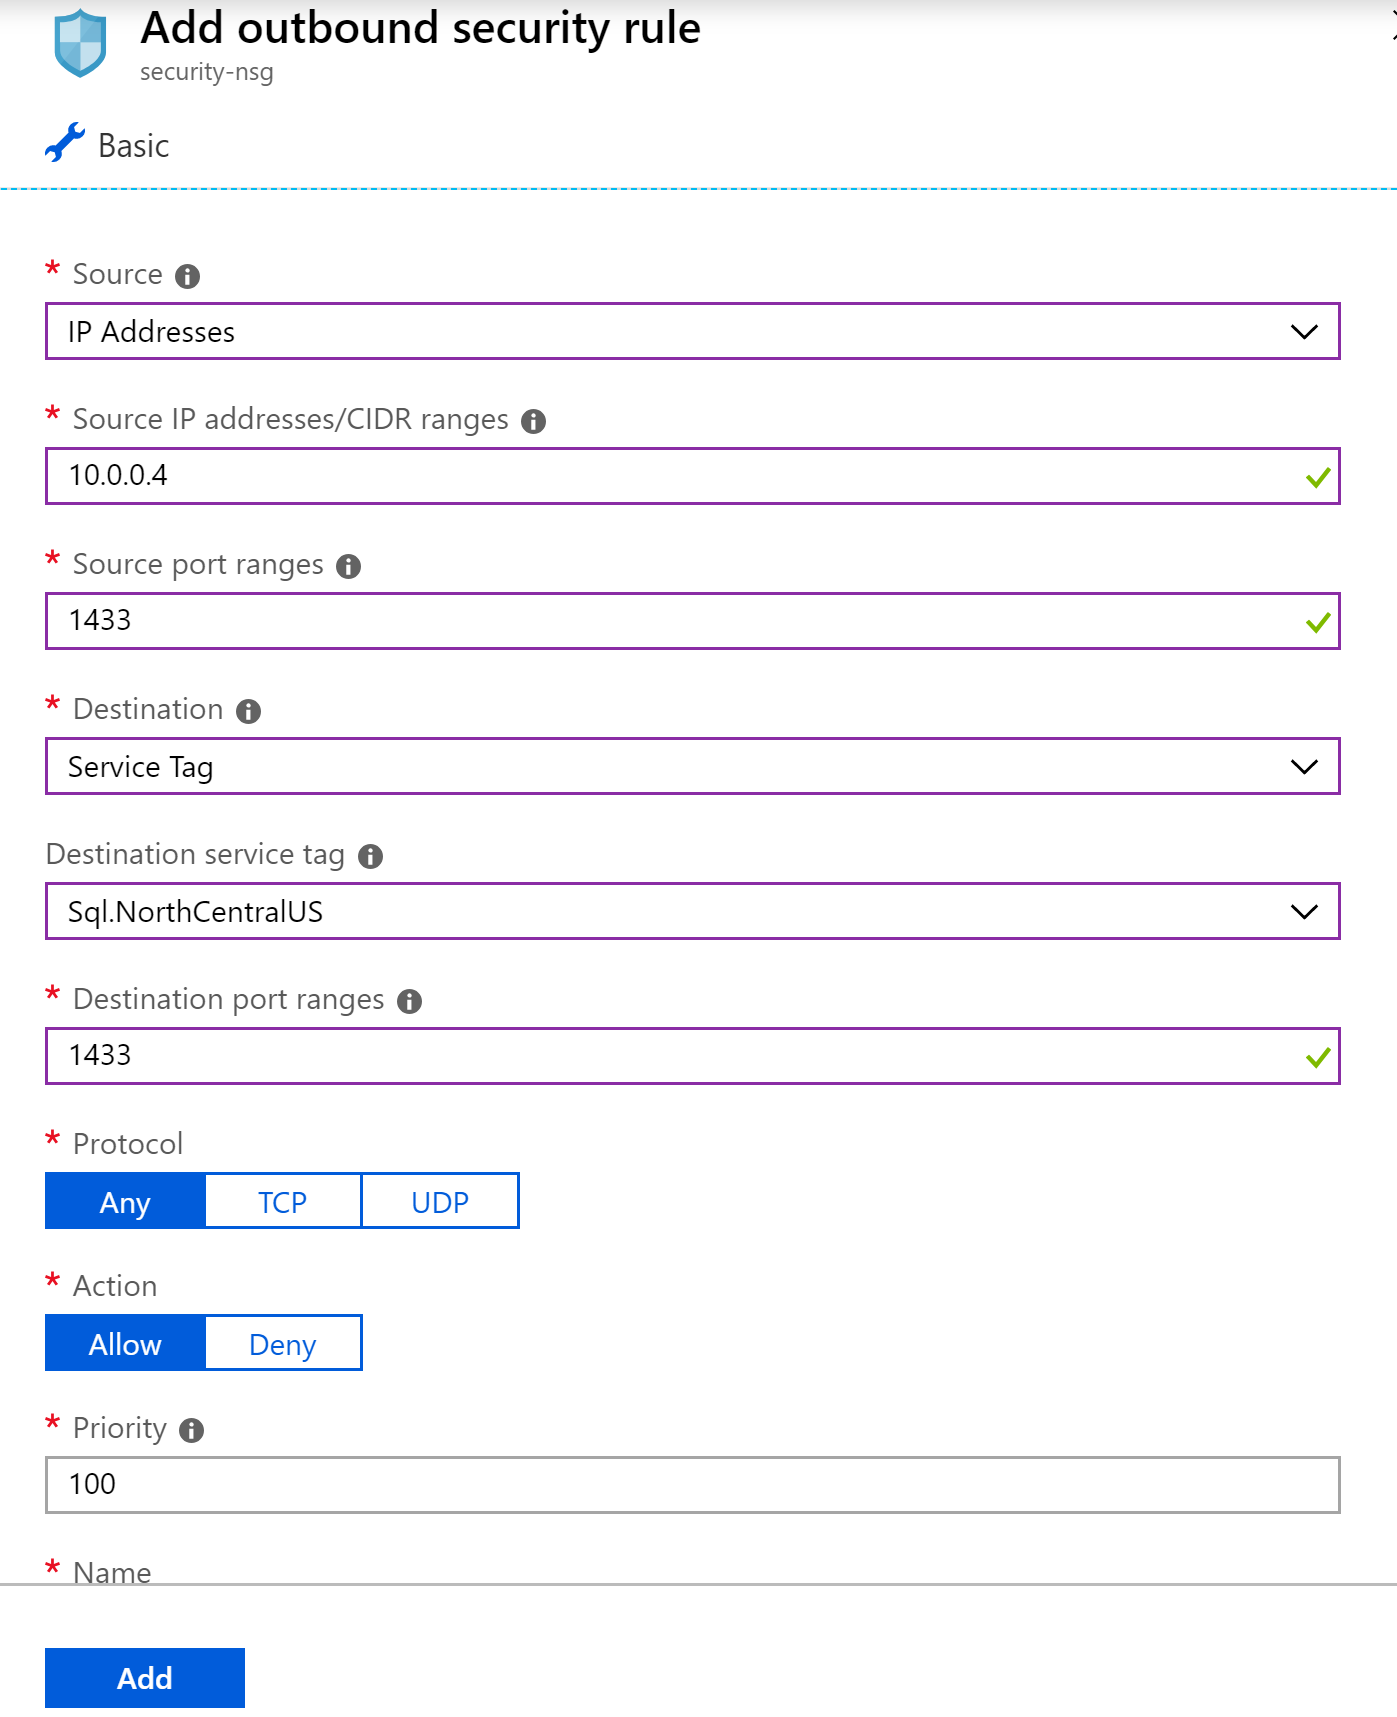
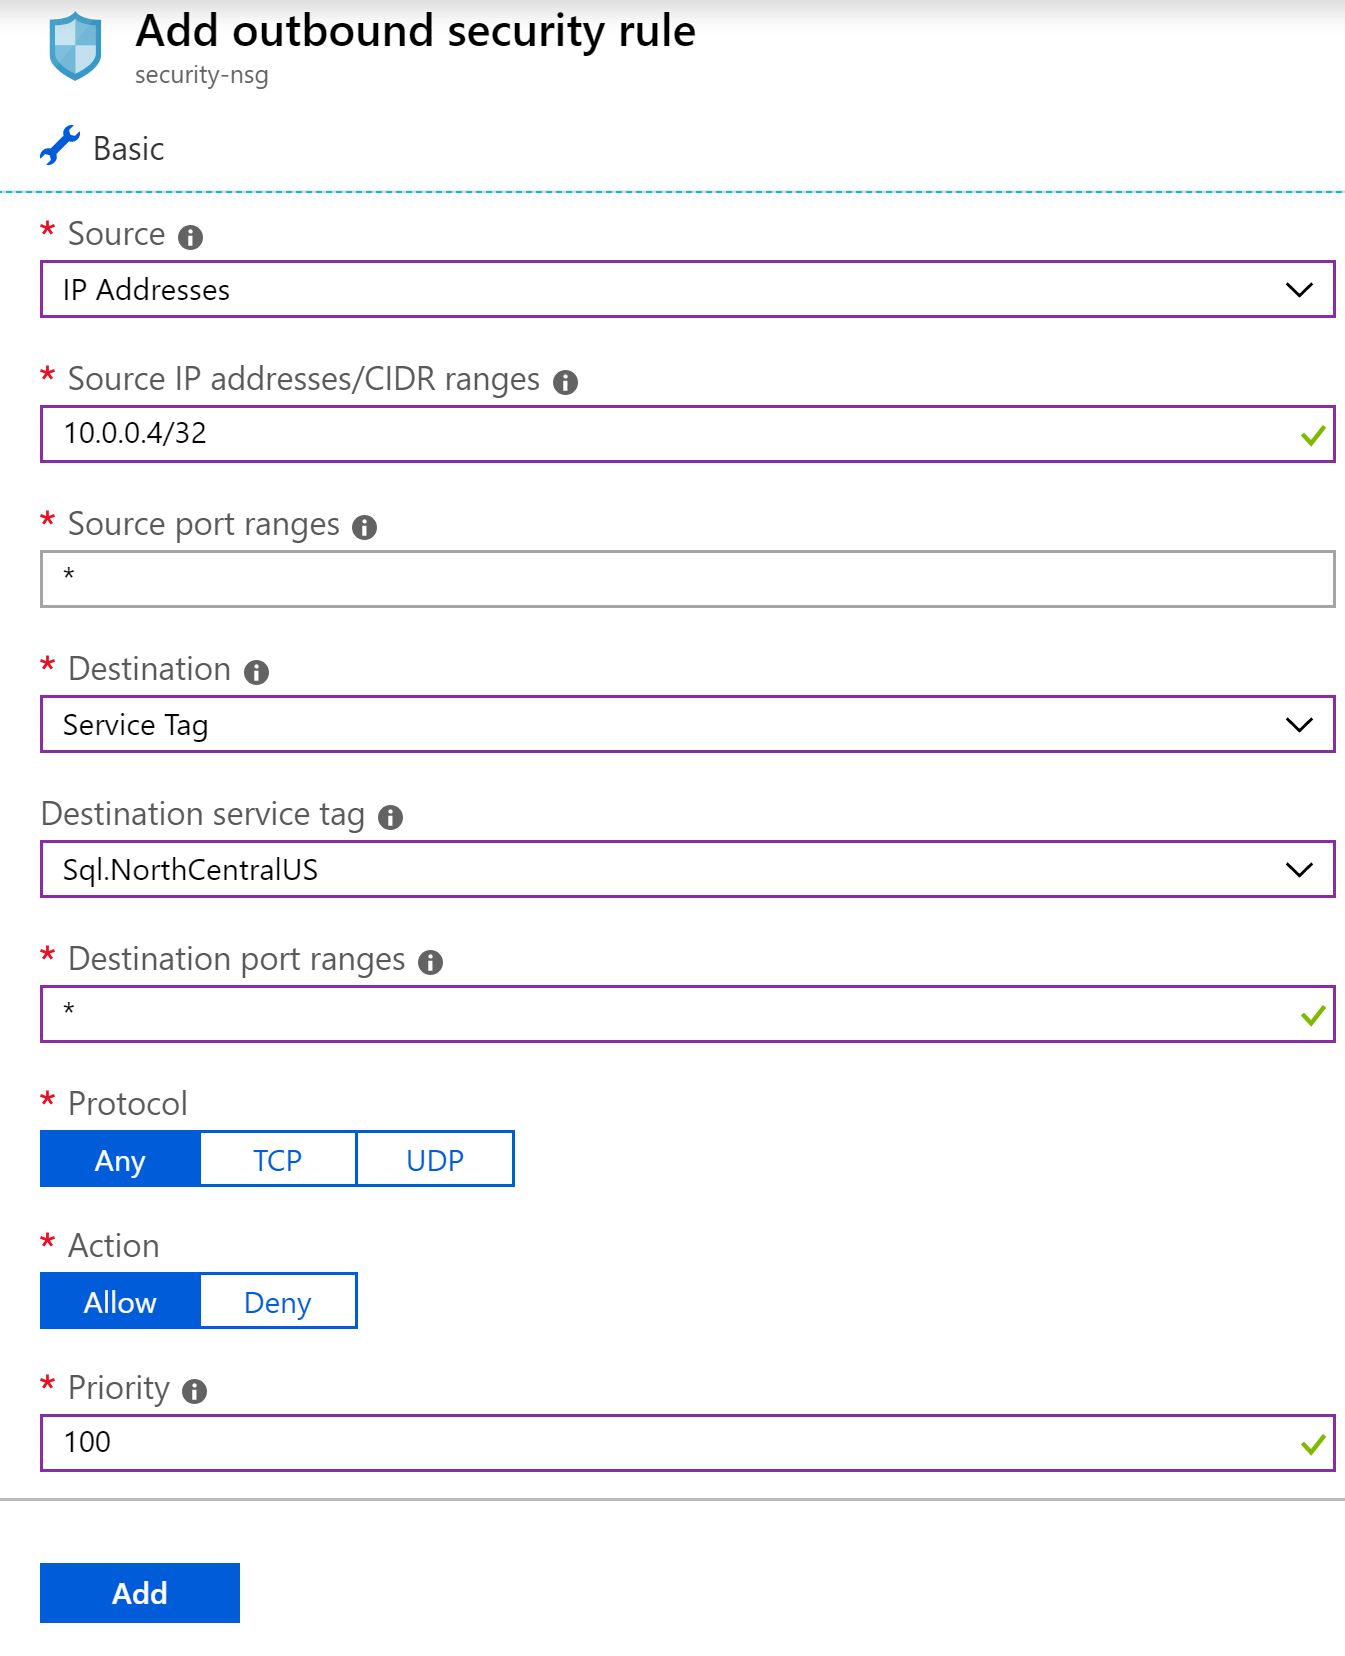
Finish network security exercise

diff --git a/08-network-security.md b/08-network-security.md
@@ -1,8 +1,10 @@
 # Network Security
 
-In this exercise we will secure the Azure Web App created in exercise #4 at the networking layer.  We will lock down access to the application to a private VNet, apply Network Security Group filters, and expose the site to the internet through an Application Gateway.
+In this exercise we will secure the Azure Web App created in exercise #4 at the networking layer.  We will lock down access to the SQL Server from a private VNet and apply Network Security Group rules so only one VM on the subnet can access it.
 
 ## Create a service endpoint to Azure SQL
+
+1. Edit the azuredeploy.parameters.json file in the /security-web-apps/ and replace the "[unique string here]" in the parameter values with a unique value to avoid naming conflicts.
 
 1. Deploy the ARM template that will set up a VNet with one private subnet and a VM in it we can use for testing.
 
@@ -10,16 +12,13 @@ In this exercise we will secure the Azure Web App created in exercise #4 at the 
 # If your $uniqueString and/or $resourceGroupName variables are not set, set them  here
 # $uniqueString = "$(Get-Random 99999)"
 # $resourceGroupName = "azure-training-rg"
-az group deployment create --resource-group "$resourceGroupName" --template-file ./security-web-apps/azuredeploy.json --parameters '@./security-web-apps/azuredeploy.parameters.json' --parameters "{'uniqueString': { 'value': '$uniqueString' }}"
+cd $home/azuretraining
+az group deployment create --resource-group "$resourceGroupName" --template-file ./security-web-apps/azuredeploy.json --parameters '@./security-web-apps/azuredeploy.parameters.json' --parameters "{'uniqueString': { 'value': '$uniqueString' }}" --verbose
 ```
 
-2. Open up the [Azure Portal](https://portal.azure.com) and navigate to your resource group.  Click on the Deployments link on the left hand side to see the status of the deployments.
+2. Once the deployment is complete open up the [Azure Portal](https://portal.azure.com) and navigate to the Virtual Network resource "security-vnet"
 
-    ![Resource Group Deployments](images/resource-group-deployments.png)
-
-3. Once the deploy is complete open the Virtual Network resource "security-vnet"
-
-4. Select the "Service endpoints" menu option
+3. Select the "Service endpoints" menu option
 
     ![Service endpoints](images/vnet-service-endpoint-menu.png)
 
@@ -79,23 +78,38 @@ This will switch outgoing traffic from your private subnet to this Azure service
 
 20. Click the **Associate** button and select the VNet and Subnet that your Virtual Machine is in.  Click the **OK** button to save the association.
 
+23. Click on **Outbound Security Rules** in the menu on the left and click the **Add** button to create a new rule to deny all outbound traffic:
+
+    1. Select **Any** in the **Source** dropdown
+    2. Enter **"\*"** as the source port.
+    3. Select **Any** in the **Destination** dropdown.
+    4. Enter **"\*"** as the destination port.
+    5. Name the rule something like **"DenyAllOutBound"**
+    6. Select **Deny** for the **Action**
+    6. Set the **Priority** as **999**
+    8. Click **Add**
+
+    ![Deny all outbound rule](images/nsg-deny-all-outbound.png)
+
+24. Wait a minute or so for the rule to take effect.
+
 21. Open your RDP session again and attempt to connect to the Azure SQL Server.  You will not be able to connect since outbound traffic on port 1433 to the Azure SQL service is not explicitly allowed.
 
-## Add explicity access to the VM
+## Add explicit access to the VM
 
 22. Open the [Azure Portal](https://portal.azure.com) and navigate back to the Network Security Group you just created.
 
-23. Click on **Outbound Security Rules** in the menu on the left and click the **Add** button to create a new rule:
-
     1. Select **IP Address** in the **Source** dropdown
-    2. Enter the private IP address of the Virtual Machine.
-    3. Enter **1433** as the source port.
+    2. Enter the private IP address of the Virtual Machine with a "/32" at the end to signify a single IP instead of a range.
+    3. Enter **"\*"** as the source port.
     4. Select **Service Tag** in the **Destination** dropdown.
     5. Select **Sql.NorthCentralUS** in the **Destination Service Tag** drop down. 
-    6. Enter **1433** as the destination port.
+    6. Enter **"\*"** as the destination port.
     7. Name the rule something like **"AllowSqlNorthCentralUSFromVM"**
     8. Click **Add**
 
     ![Outbound Rule](images/nsg-outbound-sql-rule.png)
 
 24. Open your RDP session again and attempt to connect to the Azure SQL Server. You should be able to open a connection to the server and execute commands again.
+
+Next: []

diff --git a/07-messaging-service-bus.md b/07-messaging-service-bus.md
@@ -82,12 +82,15 @@ The customer interface website deployed to Azure App Services will publish an "O
         $newAppSettings[$kvp.Name] = $kvp.Value
     }
 
+    # Add new settings
     $newAppSettings["ServiceBusConnectionString"] = $serviceBusConnectionString
     $newAppSettings["ServiceBusTopicName"] = $topicName
+
+    # Update settings
     Set-AzureRmWebApp -AppSettings $newAppSettings -Name $apiAppServiceName -ResourceGroupName $resourceGroupName
     ```
 
-16. Go to your customer order Web Application and place a few orders. After a short period of time you should be able to go back to your service bus Overview page and see the **Requests** and **Messages** charts update to show activity in the bus.
+16. Go to your customer order Web Application and place a few orders. After a short period of time you should be able to go back to your service bus topic overview page and under the Subscriptions the message count match the number of orders you've placed.
 
 <!--
 ## Send and receive messages with the REST API
@@ -128,29 +131,35 @@ While Azure Service Bus supports messaging protocol standars like AMQP, you can 
     $serviceBusConnectionString = "[Your connection string goes here]"
     $topicName = "order-placed-sbt"
     $ccSubscriptionName = "cc-processor-sbs"
-    dotnet run ./service-bus/src/Events.CreditCardProcessor $serviceBusConnectionString $topicName $ccSubscriptionName
+    dotnet run --project $home/azuretraining/service-bus/src/Events.CreditCardProcessor $serviceBusConnectionString $topicName $ccSubscriptionName
     ```
 
 3. The application should start receiving the OrderPlacedEvent messages you generated earlier.  There is a built in sleep of 5 seconds when an event is received to simulate the application doing some work.
 
-4. Hit a key to stop this application. Now run the Notification application. Because this application will be listening on a different subscription, it will receive the same messages that the Credit Card Processor application received.
+4. Hit the ENTER key to stop this application. Now run the Notification application. Because this application will be listening on a different subscription, it will receive the same messages that the Credit Card Processor application received.
 
     ```powershell
     $ntfSubscriptionName = "notify-processor-sbs"
-    dotnet run ./service-bus/src/Events.Notifications $serviceBusConnectionString $topicName $ntfSubscriptionName
+    dotnet run --project $home/azuretraining/service-bus/src/Events.Notifications $serviceBusConnectionString $topicName $ntfSubscriptionName
     ```
 
 5. Try placing more orders and watch as the events are picked up immediately after the order save operation completes.
 
+<!--
 6.  Keep the notification app running and open an additional shell.azure.com window and run a second copy of the Notification Processor
 
     ```powershell
-    cd $home/azuretraining
-    dotnet run ./service-bus/src/Events.Notifications $serviceBusConnectionString $topicName $ntfSubscriptionName
+    $serviceBusConnectionString = "[Your connection string goes here]"
+    $topicName = "order-placed-sbt"
+    $ntfSubscriptionName = "notify-processor-sbs"
+    
+    dotnet run --project $home/azuretraining/service-bus/src/Events.Notifications $serviceBusConnectionString $topicName $ntfSubscriptionName
     ```
 
 7. Start placing lots of orders in quick succession by hitting the **Random Order** button on the web application.  Switch between the two shell.azure.com windows and notice how the events are only being picked up by one instance, doubling the processing throughput of the events.
 
 > This is referred to as the "competing consumer" model for message processing.  Simply by adding more consuming applications on a queue or subscription messages will be processed in parallel. You can rely on the Service Bus to atomically lock the messages so they only get delivered once to each consumer in your processing pool.
+
+-->
 
 Next: [Azure Network Security](./08-network-security.md)

diff --git a/09-app-gateway.md b/09-app-gateway.md
@@ -1,0 +1,13 @@
+
+## Protect against common OWASP attacks with Application Gateway and the Web Firewall
+
+Our application has a SQL injection issue.  Load the API endpoint /api/menu?filter=Sandwich in your browser.  It will return only menu items with the text "Sandwich" in them.
+However, the developers didn't properly parameterize the SQL WHERE clause, so it is vulnerable to injection attacks.  Enter the URL:
+
+    /api/menu?filter=%'; UPDATE MenuOption SET Name=Name+' HACKED!'--
+
+in your browser, then load the /api/menu URL again.  You will see that the names of the products have been changed.
+
+To protect against issues like this we will put the site behind an Application Gateway with the Web Firewall feature enabled.
+
+1.

diff --git a/README.md b/README.md
@@ -8,7 +8,7 @@
 5. [Containers and Kubernetes](05-containers-kubernetes.md)
 6. [Create a serverless application](06-serverless.md)
 7. [Messaging with Azure Service Bus](07-messaging-service-bus.md)
-8. [Network security groups](08-network-security.md)
+8. [Service endpoints and network security groups](08-network-security.md)
 <!--
 9. [Create an Application Gateway](09-app-gateway.md)
 10. [Managed Service Identities](10-managed-service-identity.md)
